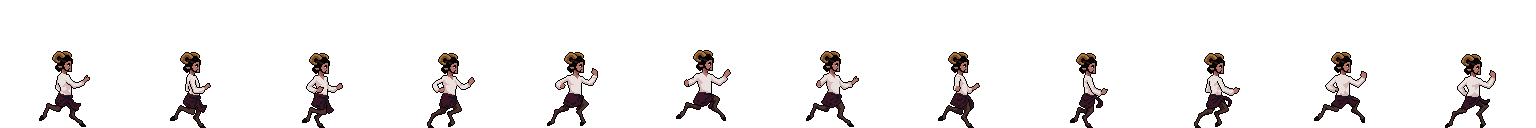
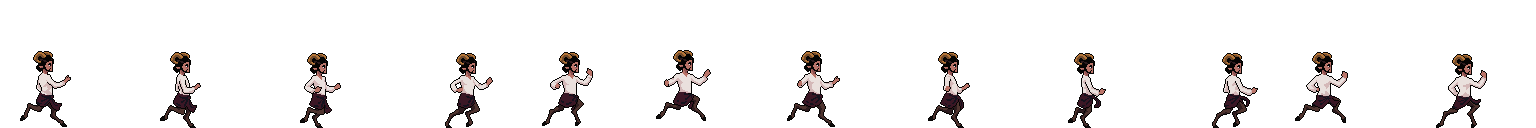
Plant enemy strides and make their arrows readable.
Walk frames now keep the stance foot under the body, the ronin starts clear of the left edge, and the arrow shafts are light enough to see against the castle.

diff --git a/script.js b/script.js
@@ -496,16 +496,16 @@ const ROOMS = {
         title: 'Dış Avlu',
         line: 'İsimlerini satmışlar avluyu tutuyor. Yumrukçu, shinobi, çalıntı zırhlı komutan ve çatıdaki okçular.',
         bg: 'bg_castle', crop: CASTLE_CROP, layout: 'castle',
-        spawn: { x: 190, y: 600 },
+        spawn: { x: 300, y: 600 },
         portal: { x: 640, y: 520, w: 58, h: 42 },
         next: 'garden',
-        foes: [['fighter', 520, 620], ['commander', 780, 600], ['shinobi', 310, 480], ['sarcher', 340, 380], ['sarcher', 940, 380]]
+        foes: [['fighter', 470, 620], ['commander', 900, 600], ['shinobi', 970, 490], ['sarcher', 340, 380], ['sarcher', 940, 380]]
     },
     garden: {
         title: 'Yılan Bahçesi',
         line: 'Bahçenin suyu zehir. Saçları yılan, kuyrukları kırbaç.',
         bg: 'bg_castle', crop: CASTLE_CROP, tint: 0x6ea86a, layout: 'castle',
-        spawn: { x: 190, y: 600 },
+        spawn: { x: 300, y: 600 },
         portal: { x: 640, y: 520, w: 58, h: 42 },
         next: 'crypt',
         foes: [['gorgon1', 460, 620], ['gorgon2', 720, 540], ['gorgon3', 980, 480]]
@@ -514,7 +514,7 @@ const ROOMS = {
         title: 'Kemik Mahzeni',
         line: 'Mezarlar boşalmış. Ok, mızrak ve kılıç, hepsi kemikten.',
         bg: 'bg_boss', tint: 0x99aacc, layout: 'hall',
-        spawn: { x: 180, y: 560 },
+        spawn: { x: 280, y: 560 },
         portal: { x: 1100, y: 575, w: 70, h: 50 },
         next: 'ridge',
         foes: [['skelwar', 520, 560], ['skelspear', 780, 560], ['skelarch', 300, 390], ['skelarch', 980, 390]]
@@ -523,7 +523,7 @@ const ROOMS = {
         title: 'Yabani Sırt',
         line: 'Surun dışında satirler nöbet tutuyor. İnsan yüzü, keçi ayağı.',
         bg: 'bg_castle', crop: CASTLE_CROP, tint: 0xc4a060, layout: 'castle',
-        spawn: { x: 190, y: 600 },
+        spawn: { x: 300, y: 600 },
         portal: { x: 640, y: 520, w: 58, h: 42 },
         next: 'tower',
         foes: [['satyr1', 480, 620], ['satyr2', 780, 540], ['satyr3', 300, 480]]
@@ -532,7 +532,7 @@ const ROOMS = {
         title: 'Büyü Kulesi',
         line: 'Kulenin büyücüleri ateşi ve şimşeği yola germiş.',
         bg: 'bg_boss', tint: 0xcc99ee, layout: 'hall',
-        spawn: { x: 180, y: 560 },
+        spawn: { x: 280, y: 560 },
         portal: { x: 1100, y: 575, w: 70, h: 50 },
         next: 'night',
         foes: [['fire', 340, 390], ['light', 960, 390], ['wanderer', 640, 540]]
@@ -541,7 +541,7 @@ const ROOMS = {
         title: 'Gece İç Avlu',
         line: 'Kunoichi ve vampirler nöbette. Kan burada bir yemin gibi duruyor.',
         bg: 'bg_castle', crop: CASTLE_CROP, tint: 0x6677aa, layout: 'castle',
-        spawn: { x: 190, y: 600 },
+        spawn: { x: 300, y: 600 },
         portal: { x: 640, y: 520, w: 58, h: 42 },
         next: 'throne',
         foes: [['kunoichi', 340, 480], ['kunoichi', 960, 480], ['vgirl', 560, 620], ['converted', 900, 600]]
@@ -550,7 +550,7 @@ const ROOMS = {
         title: 'Taht',
         line: 'Kontes tahtta. Lanetin kalbi o. Yemin burada kapanır.',
         bg: 'bg_boss', tint: 0xff8866, layout: 'hall',
-        spawn: { x: 220, y: 560 },
+        spawn: { x: 280, y: 560 },
         final: true,
         foes: [['countess', 900, 540]]
     }
@@ -571,9 +571,9 @@ function preload() {
     Object.keys(CAST).forEach((id) => {
         const def = CAST[id];
         Object.keys(def.frames).forEach((anim) => {
-            this.load.spritesheet(id + '_' + anim, 'art/cast/' + id + '_' + anim + '.png?v=48', cell);
+            this.load.spritesheet(id + '_' + anim, 'art/cast/' + id + '_' + anim + '.png?v=50', cell);
         });
-        if (def.proj) this.load.image(def.proj, 'art/cast/' + def.proj + '.png?v=48');
+        if (def.proj) this.load.image(def.proj, 'art/cast/' + def.proj + '.png?v=50');
     });
 }
 
@@ -587,7 +587,7 @@ function create() {
 
     // Feet sit on the texture origin, so flips and landings stay put.
     // Body is centered on that origin, so facing left does not shift the hitbox.
-    player = this.physics.add.sprite(190, 600, 'samurai_idle', 1);
+    player = this.physics.add.sprite(300, 600, 'samurai_idle', 1);
     playerHurtTimer = 1400;
     player._hurtPose = 0;
     player.setScale(SAM_SCALE).setBounce(0).setCollideWorldBounds(true).setDepth(10);
@@ -1456,7 +1456,7 @@ class SheetEnemy extends Enemy {
         const ay = this.sprite.y - (dims.fh - this.config.handY) * scale;
         let gfx;
         if (this.config.proj) {
-            gfx = gameScene.add.sprite(ax, ay, this.config.proj).setScale(Math.max(1, scale)).setFlipX(dir < 0).setDepth(15);
+            gfx = gameScene.add.sprite(ax, ay, this.config.proj).setScale(2).setFlipX(dir < 0).setDepth(16);
         } else {
             const key = this.config.bolt === 'lightning' ? 'bolt_lightning' : 'bolt_fire';
             gfx = gameScene.add.sprite(ax, ay, key).setScale(2).setFlipX(dir < 0).setDepth(15);
@@ -1706,7 +1706,8 @@ function playerDeath() {
         const reviveHandler = () => {
             playerDead = false; playerDeadFrozen = false; playerHP = playerMaxHP; playerHurtTimer = PLAYER_HURT_IFRAMES; updateHUD();
             player.setAlpha(1).clearTint().setScale(RONIN_SCALE).setRotation(0);
-            player.setPosition(190, 600); player.body.setVelocity(0, 0); player.currentAnim = ''; playAnim('idle');
+            const back = (ROOMS[currentRoom] && ROOMS[currentRoom].spawn) || { x: 300, y: 600 };
+            player.setPosition(back.x, back.y); player.body.setVelocity(0, 0); player.currentAnim = ''; playAnim('idle');
             playerHurtTimer = 1400;
             player.setRotation(0);
             player.body.allowGravity = true;

diff --git a/index.html b/index.html
@@ -11,6 +11,6 @@
 </head>
 <body>
     <script src="https://cdn.jsdelivr.net/npm/phaser@3.80.1/dist/phaser.min.js"></script>
-    <script src="script.js?v=49"></script>
+    <script src="script.js?v=50"></script>
 </body>
 </html>
